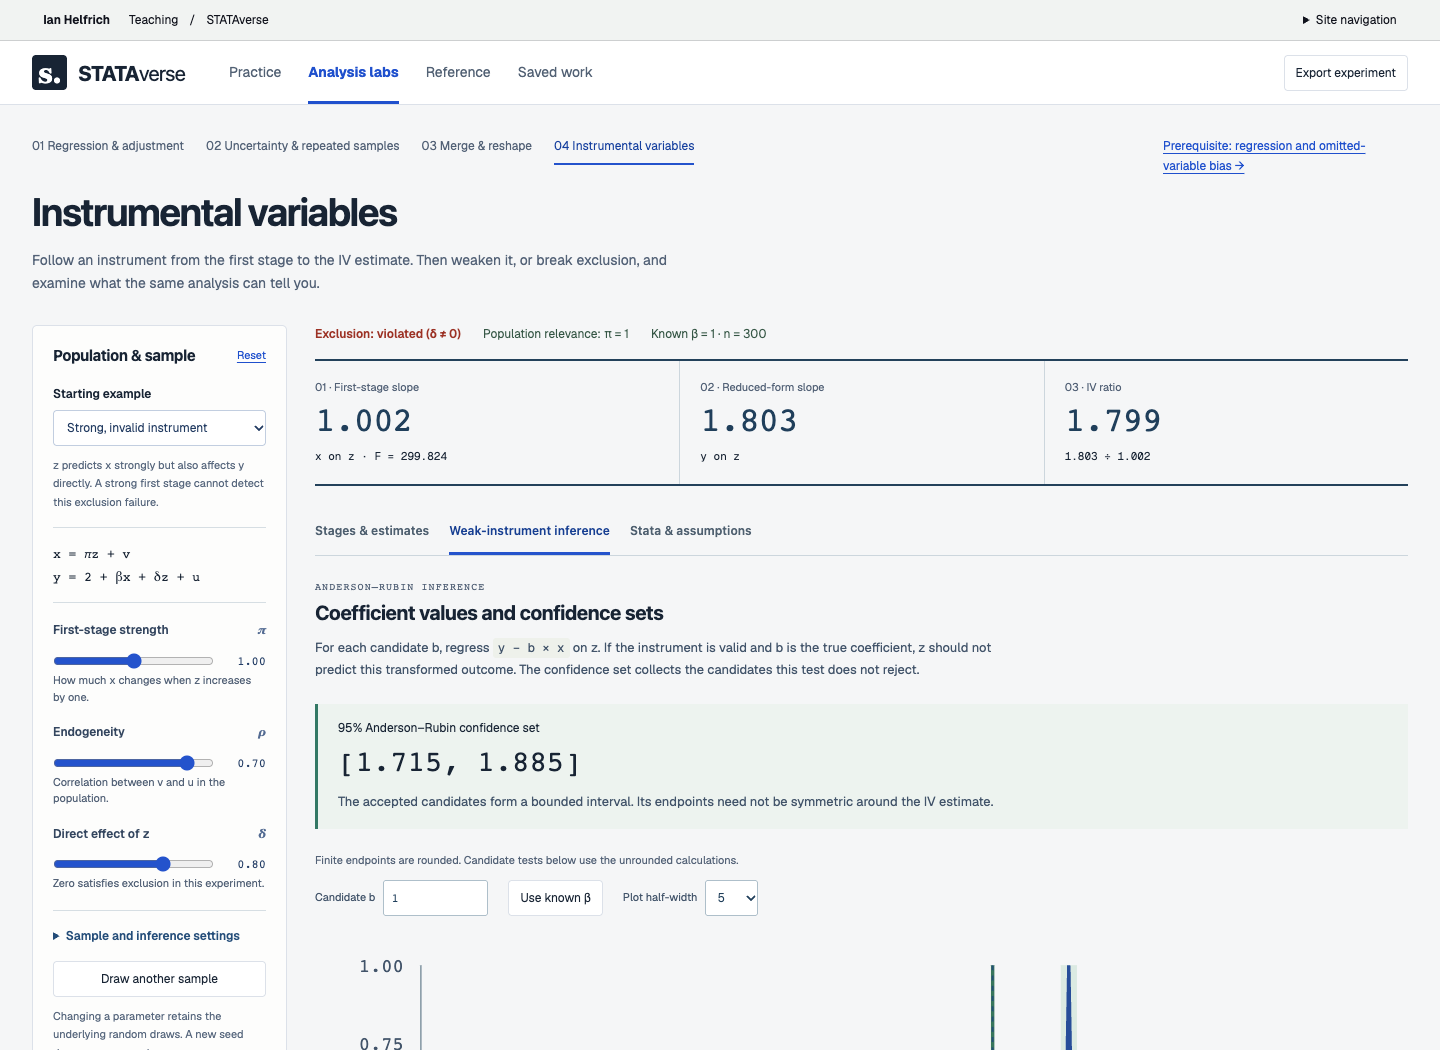
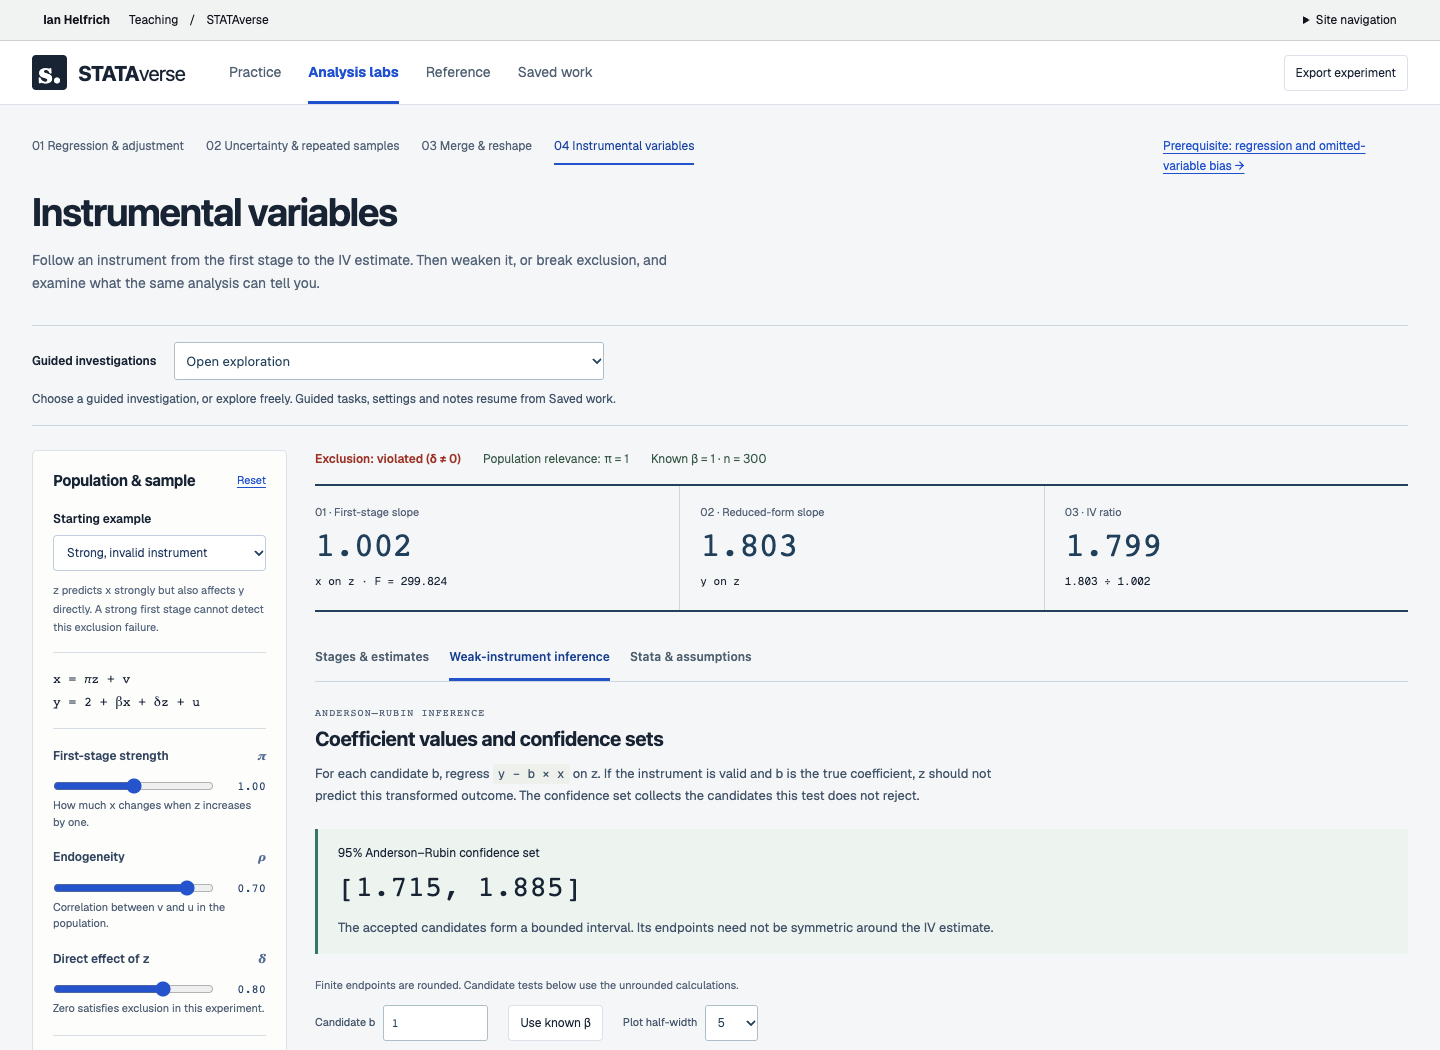
Record IV integration checks and refine investigation headings

diff --git a/index.html b/index.html
@@ -185,7 +185,7 @@
         <div class="section-intro">
           <p class="eyebrow">Intermediate and advanced investigations</p>
           <h2 id="advanced-investigations-title">
-            Instrumental variables, from observations to inference.
+            Instrumental-variable estimation and inference.
           </h2>
           <p>
             After regression, examine what an instrument identifies and what
@@ -209,7 +209,7 @@
             ><span class="path-index">IV · 02</span>
             <div>
               <span class="path-tag">Weak instruments · 6 tasks</span>
-              <h3>Confidence sets without convenient bounds</h3>
+              <h3>Weak instruments and unbounded confidence sets</h3>
               <p>
                 Weaken the first stage, test individual candidates and interpret
                 disconnected or uninformative confidence sets.
